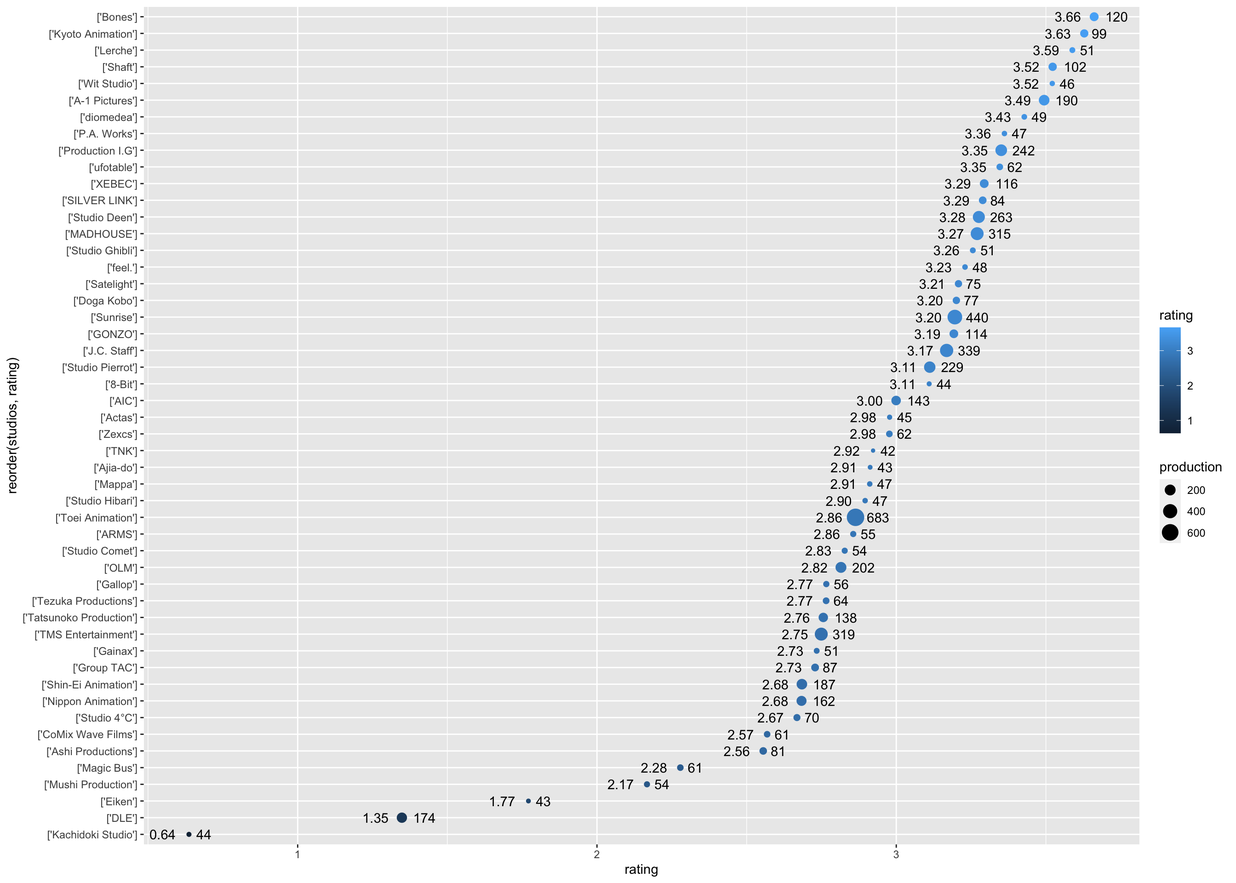
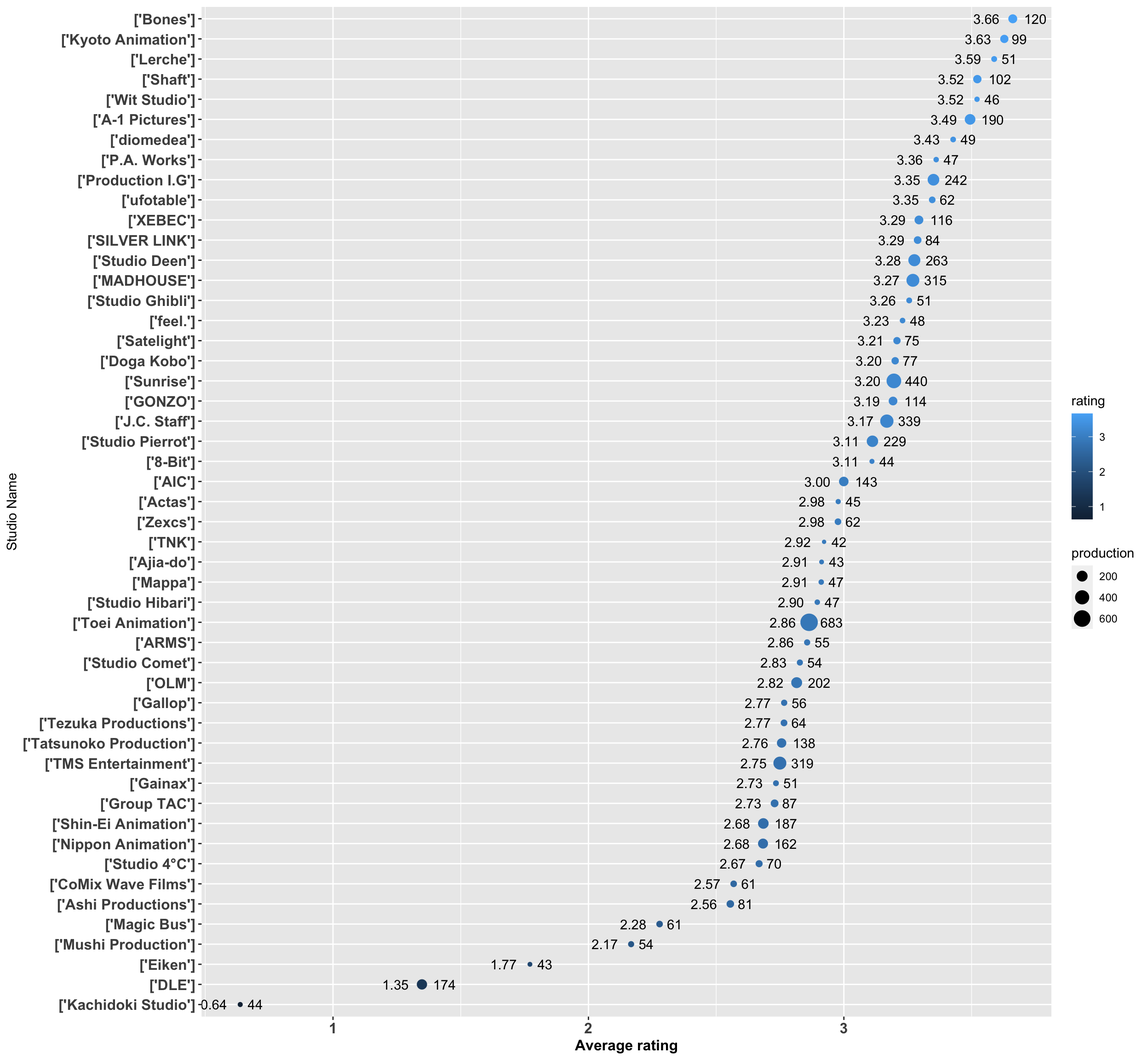
update1

diff --git a/docs/understanding-the-data.html b/docs/understanding-the-data.html
@@ -148,7 +148,6 @@ code span.wa { color: #60a0b0; font-weight: bold; font-style: italic; } /* Warni
 <li class="chapter" data-level="4.2" data-path="applications.html"><a href="applications.html#example-two"><i class="fa fa-check"></i><b>4.2</b> Example two</a></li>
 </ul></li>
 <li class="chapter" data-level="5" data-path="summary.html"><a href="summary.html"><i class="fa fa-check"></i><b>5</b> Summary</a></li>
-<li class="chapter" data-level="" data-path="some-further-thoughts-regarding-the-project.html"><a href="some-further-thoughts-regarding-the-project.html"><i class="fa fa-check"></i>Some further thoughts regarding the project</a></li>
 <li class="divider"></li>
 <li><a href="./">Psy6422 project by Halleyson Li</a></li>
 
@@ -232,10 +231,14 @@ Another way is by code shows as below:</p>
 <span id="cb3-42"><a href="understanding-the-data.html#cb3-42" aria-hidden="true" tabindex="-1"></a></span>
 <span id="cb3-43"><a href="understanding-the-data.html#cb3-43" aria-hidden="true" tabindex="-1"></a><span class="co">#only keep top 50 production studios</span></span>
 <span id="cb3-44"><a href="understanding-the-data.html#cb3-44" aria-hidden="true" tabindex="-1"></a><span class="fu">library</span>(data.table)</span>
-<span id="cb3-45"><a href="understanding-the-data.html#cb3-45" aria-hidden="true" tabindex="-1"></a>studiotop50 <span class="ot">&lt;-</span> <span class="fu">data.table</span>(studioall, <span class="at">key =</span> <span class="st">&quot;production&quot;</span>)</span>
-<span id="cb3-46"><a href="understanding-the-data.html#cb3-46" aria-hidden="true" tabindex="-1"></a>studiotop50 <span class="ot">&lt;-</span> studiotop50 <span class="sc">%&gt;%</span> </span>
-<span id="cb3-47"><a href="understanding-the-data.html#cb3-47" aria-hidden="true" tabindex="-1"></a>  <span class="fu">arrange</span>(<span class="fu">desc</span>(production)) <span class="sc">%&gt;%</span> </span>
-<span id="cb3-48"><a href="understanding-the-data.html#cb3-48" aria-hidden="true" tabindex="-1"></a>  <span class="fu">slice</span> (<span class="dv">1</span><span class="sc">:</span><span class="dv">50</span>)</span></code></pre></div>
+<span id="cb3-45"><a href="understanding-the-data.html#cb3-45" aria-hidden="true" tabindex="-1"></a></span>
+<span id="cb3-46"><a href="understanding-the-data.html#cb3-46" aria-hidden="true" tabindex="-1"></a><span class="co">#need this package to use piping</span></span>
+<span id="cb3-47"><a href="understanding-the-data.html#cb3-47" aria-hidden="true" tabindex="-1"></a><span class="fu">library</span> (dplyr)</span>
+<span id="cb3-48"><a href="understanding-the-data.html#cb3-48" aria-hidden="true" tabindex="-1"></a></span>
+<span id="cb3-49"><a href="understanding-the-data.html#cb3-49" aria-hidden="true" tabindex="-1"></a>studiotop50 <span class="ot">&lt;-</span> <span class="fu">data.table</span>(studioall, <span class="at">key =</span> <span class="st">&quot;production&quot;</span>)</span>
+<span id="cb3-50"><a href="understanding-the-data.html#cb3-50" aria-hidden="true" tabindex="-1"></a>studiotop50 <span class="ot">&lt;-</span> studiotop50 <span class="sc">%&gt;%</span> </span>
+<span id="cb3-51"><a href="understanding-the-data.html#cb3-51" aria-hidden="true" tabindex="-1"></a>  <span class="fu">arrange</span>(<span class="fu">desc</span>(production)) <span class="sc">%&gt;%</span> </span>
+<span id="cb3-52"><a href="understanding-the-data.html#cb3-52" aria-hidden="true" tabindex="-1"></a>  <span class="fu">slice</span> (<span class="dv">1</span><span class="sc">:</span><span class="dv">50</span>)</span></code></pre></div>
 <div class="sourceCode" id="cb4"><pre class="sourceCode r"><code class="sourceCode r"><span id="cb4-1"><a href="understanding-the-data.html#cb4-1" aria-hidden="true" tabindex="-1"></a>studio1959_2020 <span class="ot">&lt;-</span> </span>
 <span id="cb4-2"><a href="understanding-the-data.html#cb4-2" aria-hidden="true" tabindex="-1"></a>  <span class="fu">ggplot</span>(<span class="at">data =</span> studiotop50, <span class="at">mapping =</span>  <span class="fu">aes</span>(<span class="at">x =</span> production,</span>
 <span id="cb4-3"><a href="understanding-the-data.html#cb4-3" aria-hidden="true" tabindex="-1"></a>                                                <span class="at">y =</span> <span class="fu">reorder</span> (studios, production))) <span class="sc">+</span> </span>
@@ -251,26 +254,28 @@ Another way is by code shows as below:</p>
 ## replace the existing scale.</code></pre>
 <div class="sourceCode" id="cb9"><pre class="sourceCode r"><code class="sourceCode r"><span id="cb9-1"><a href="understanding-the-data.html#cb9-1" aria-hidden="true" tabindex="-1"></a><span class="fu">print</span>(plot <span class="sc">+</span> <span class="fu">labs</span>(<span class="at">y =</span> <span class="st">&quot;Studio Name&quot;</span>))</span></code></pre></div>
 <p><img src="psy6422-project_files/figure-html/unnamed-chunk-3-1.png" width="1248" /></p>
-<div class="sourceCode" id="cb10"><pre class="sourceCode r"><code class="sourceCode r"><span id="cb10-1"><a href="understanding-the-data.html#cb10-1" aria-hidden="true" tabindex="-1"></a>studio1959_2020 <span class="ot">&lt;-</span> </span>
+<div class="sourceCode" id="cb10"><pre class="sourceCode r"><code class="sourceCode r"><span id="cb10-1"><a href="understanding-the-data.html#cb10-1" aria-hidden="true" tabindex="-1"></a>studio1959_2020c <span class="ot">&lt;-</span> </span>
 <span id="cb10-2"><a href="understanding-the-data.html#cb10-2" aria-hidden="true" tabindex="-1"></a>  <span class="fu">ggplot</span>(<span class="at">data =</span> studiotop50, <span class="at">mapping =</span>  <span class="fu">aes</span>(<span class="at">x =</span> rating,</span>
 <span id="cb10-3"><a href="understanding-the-data.html#cb10-3" aria-hidden="true" tabindex="-1"></a>                                                <span class="at">y =</span> <span class="fu">reorder</span> (studios, rating))) <span class="sc">+</span> </span>
 <span id="cb10-4"><a href="understanding-the-data.html#cb10-4" aria-hidden="true" tabindex="-1"></a>  <span class="fu">geom_point</span>(<span class="fu">aes</span>(<span class="at">size =</span> production, <span class="at">colour =</span> rating, <span class="at">check_overlap =</span> <span class="cn">TRUE</span>)) <span class="sc">+</span> </span>
 <span id="cb10-5"><a href="understanding-the-data.html#cb10-5" aria-hidden="true" tabindex="-1"></a>  <span class="fu">geom_text</span>(<span class="fu">aes</span>(<span class="at">label =</span> production),<span class="at">hjust =</span> <span class="sc">-</span><span class="fl">0.5</span>) <span class="sc">+</span></span>
 <span id="cb10-6"><a href="understanding-the-data.html#cb10-6" aria-hidden="true" tabindex="-1"></a>  <span class="fu">geom_text</span>(<span class="fu">aes</span>(<span class="at">label =</span> <span class="fu">sprintf</span>(<span class="st">&quot;%.2f&quot;</span>,rating),<span class="at">hjust =</span> <span class="sc">+</span><span class="fl">1.5</span>))</span></code></pre></div>
 <pre><code>## Warning: Ignoring unknown aesthetics: check_overlap</code></pre>
-<div class="sourceCode" id="cb12"><pre class="sourceCode r"><code class="sourceCode r"><span id="cb12-1"><a href="understanding-the-data.html#cb12-1" aria-hidden="true" tabindex="-1"></a>plot1 <span class="ot">&lt;-</span> studio1959_2020 <span class="sc">+</span> <span class="fu">scale_x_discrete</span>(<span class="at">guide =</span> <span class="fu">guide_axis</span>(<span class="at">n.dodge =</span> <span class="dv">5</span>)) <span class="sc">+</span></span>
-<span id="cb12-2"><a href="understanding-the-data.html#cb12-2" aria-hidden="true" tabindex="-1"></a>  <span class="fu">scale_x_continuous</span>(<span class="st">&quot;rating&quot;</span>) </span></code></pre></div>
+<div class="sourceCode" id="cb12"><pre class="sourceCode r"><code class="sourceCode r"><span id="cb12-1"><a href="understanding-the-data.html#cb12-1" aria-hidden="true" tabindex="-1"></a>plot1 <span class="ot">&lt;-</span> studio1959_2020c <span class="sc">+</span> <span class="fu">scale_x_discrete</span>(<span class="at">guide =</span> <span class="fu">guide_axis</span>(<span class="at">n.dodge =</span> <span class="dv">5</span>)) <span class="sc">+</span></span>
+<span id="cb12-2"><a href="understanding-the-data.html#cb12-2" aria-hidden="true" tabindex="-1"></a>  <span class="fu">scale_x_continuous</span>(<span class="st">&quot;Average rating&quot;</span>) <span class="sc">+</span> <span class="fu">theme</span>(<span class="at">axis.text.y =</span> <span class="fu">element_text</span>(<span class="at">size =</span> <span class="dv">12</span>, <span class="at">face =</span> <span class="st">&quot;bold&quot;</span>),</span>
+<span id="cb12-3"><a href="understanding-the-data.html#cb12-3" aria-hidden="true" tabindex="-1"></a>                                                           <span class="at">axis.title.x =</span> <span class="fu">element_text</span>(<span class="at">size =</span> <span class="dv">12</span>, <span class="at">face =</span> <span class="st">&quot;bold&quot;</span>),</span>
+<span id="cb12-4"><a href="understanding-the-data.html#cb12-4" aria-hidden="true" tabindex="-1"></a>                                                           <span class="at">axis.text.x =</span> <span class="fu">element_text</span>(<span class="at">size =</span> <span class="dv">12</span>, <span class="at">face =</span> <span class="st">&quot;bold&quot;</span>))</span></code></pre></div>
 <pre><code>## Scale for &#39;x&#39; is already present. Adding another scale for &#39;x&#39;, which will
 ## replace the existing scale.</code></pre>
-<div class="sourceCode" id="cb14"><pre class="sourceCode r"><code class="sourceCode r"><span id="cb14-1"><a href="understanding-the-data.html#cb14-1" aria-hidden="true" tabindex="-1"></a><span class="fu">print</span>(plot1)</span></code></pre></div>
-<p><img src="psy6422-project_files/figure-html/unnamed-chunk-4-1.png" width="1344" /></p>
+<div class="sourceCode" id="cb14"><pre class="sourceCode r"><code class="sourceCode r"><span id="cb14-1"><a href="understanding-the-data.html#cb14-1" aria-hidden="true" tabindex="-1"></a><span class="fu">print</span>(plot1<span class="sc">+</span><span class="fu">labs</span>(<span class="at">y =</span> <span class="st">&quot;Studio Name&quot;</span>))</span></code></pre></div>
+<p><img src="psy6422-project_files/figure-html/unnamed-chunk-4-1.png" width="1248" /></p>
 <p>Since the first recorded studio starting at 1958, thus</p>
 <div class="sourceCode" id="cb15"><pre class="sourceCode r"><code class="sourceCode r"><span id="cb15-1"><a href="understanding-the-data.html#cb15-1" aria-hidden="true" tabindex="-1"></a><span class="fu">summary</span>(studiotop50<span class="sc">$</span>rating)</span>
 <span id="cb15-2"><a href="understanding-the-data.html#cb15-2" aria-hidden="true" tabindex="-1"></a></span>
 <span id="cb15-3"><a href="understanding-the-data.html#cb15-3" aria-hidden="true" tabindex="-1"></a></span>
 <span id="cb15-4"><a href="understanding-the-data.html#cb15-4" aria-hidden="true" tabindex="-1"></a>studiotop37r <span class="ot">&lt;-</span> studiotop50 <span class="sc">%&gt;%</span> </span>
 <span id="cb15-5"><a href="understanding-the-data.html#cb15-5" aria-hidden="true" tabindex="-1"></a>  <span class="fu">arrange</span>(<span class="fu">desc</span>(rating)) <span class="sc">%&gt;%</span> </span>
-<span id="cb15-6"><a href="understanding-the-data.html#cb15-6" aria-hidden="true" tabindex="-1"></a><span class="do">##after looking at the code, find out how many is below the 2.75 lower quartile</span></span>
+<span id="cb15-6"><a href="understanding-the-data.html#cb15-6" aria-hidden="true" tabindex="-1"></a><span class="co">#after looking at the code, find out how many is below the 2.75 lower quartile</span></span>
 <span id="cb15-7"><a href="understanding-the-data.html#cb15-7" aria-hidden="true" tabindex="-1"></a>  <span class="fu">slice</span> (<span class="dv">1</span><span class="sc">:</span><span class="dv">37</span>)</span>
 <span id="cb15-8"><a href="understanding-the-data.html#cb15-8" aria-hidden="true" tabindex="-1"></a></span>
 <span id="cb15-9"><a href="understanding-the-data.html#cb15-9" aria-hidden="true" tabindex="-1"></a>selectstudio <span class="ot">&lt;-</span> anime1 <span class="sc">%&gt;%</span> <span class="fu">select</span>(title, startYr, studios, rating)</span>

diff --git a/docs/index.html b/docs/index.html
@@ -24,7 +24,7 @@
 <meta name="author" content="Halleyson Li" />
 
 
-<meta name="date" content="2021-05-23" />
+<meta name="date" content="2021-05-24" />
 
   <meta name="viewport" content="width=device-width, initial-scale=1" />
   <meta name="apple-mobile-web-app-capable" content="yes" />
@@ -130,12 +130,14 @@ code span.wa { color: #60a0b0; font-weight: bold; font-style: italic; } /* Warni
       <nav role="navigation">
 
 <ul class="summary">
-<li><a href="./">Psy6422 project: Anime reconmandation engine</a></li>
+<li><a href="./">Psy6422 project: Prolific anime studios's prodction and rating </a></li>
 
 <li class="divider"></li>
 <li class="chapter" data-level="" data-path="index.html"><a href="index.html"><i class="fa fa-check"></i>Overview</a>
 <ul>
-<li class="chapter" data-level="0.1" data-path="index.html"><a href="index.html#project-aims"><i class="fa fa-check"></i><b>0.1</b> Project Aims</a></li>
+<li class="chapter" data-level="0.1" data-path="index.html"><a href="index.html#project-motivation"><i class="fa fa-check"></i><b>0.1</b> Project motivation</a></li>
+<li class="chapter" data-level="0.2" data-path="index.html"><a href="index.html#project-aims"><i class="fa fa-check"></i><b>0.2</b> Project Aims</a></li>
+<li class="chapter" data-level="0.3" data-path="index.html"><a href="index.html#package-requirement"><i class="fa fa-check"></i><b>0.3</b> Package requirement</a></li>
 </ul></li>
 <li class="chapter" data-level="1" data-path="understanding-the-data.html"><a href="understanding-the-data.html"><i class="fa fa-check"></i><b>1</b> Understanding the data</a></li>
 <li class="chapter" data-level="2" data-path="basic-interpretation.html"><a href="basic-interpretation.html"><i class="fa fa-check"></i><b>2</b> Basic interpretation</a></li>
@@ -146,7 +148,6 @@ code span.wa { color: #60a0b0; font-weight: bold; font-style: italic; } /* Warni
 <li class="chapter" data-level="4.2" data-path="applications.html"><a href="applications.html#example-two"><i class="fa fa-check"></i><b>4.2</b> Example two</a></li>
 </ul></li>
 <li class="chapter" data-level="5" data-path="summary.html"><a href="summary.html"><i class="fa fa-check"></i><b>5</b> Summary</a></li>
-<li class="chapter" data-level="" data-path="references.html"><a href="references.html"><i class="fa fa-check"></i>References</a></li>
 <li class="divider"></li>
 <li><a href="./">Psy6422 project by Halleyson Li</a></li>
 
@@ -169,18 +170,23 @@ code span.wa { color: #60a0b0; font-weight: bold; font-style: italic; } /* Warni
             <section class="normal" id="section-">
 <div id="header">
 <h1 class="title">PSY6422 Project</h1>
-<h2 class="subtitle"><em>Anime reconmandation based on the data from anime-planet</em></h2>
+<h2 class="subtitle"><em>Prolific anime studios prodction and rating</em></h2>
 <p class="author"><em>Halleyson Li</em></p>
-<p class="date"><em>2021-05-23</em></p>
+<p class="date"><em>2021-05-24</em></p>
 </div>
 <div id="overview" class="section level1 unnumbered">
 <h1>Overview</h1>
 <p>Based on the data scraped from <em>anime-planet</em> on June 15, 2020.
 Uploaded by Alan Mathew on <a href="https://www.kaggle.com/alancmathew/anime-dataset">Kaggle</a>.</p>
-<p>The package requirement for this
-## Project motivation</p>
-<div id="project-aims" class="section level2" number="0.1">
-<h2><span class="header-section-number">0.1</span> Project Aims</h2>
+<p>The package requirement for this</p>
+<div id="project-motivation" class="section level2" number="0.1">
+<h2><span class="header-section-number">0.1</span> Project motivation</h2>
+</div>
+<div id="project-aims" class="section level2" number="0.2">
+<h2><span class="header-section-number">0.2</span> Project Aims</h2>
+</div>
+<div id="package-requirement" class="section level2" number="0.3">
+<h2><span class="header-section-number">0.3</span> Package requirement</h2>
 
 </div>
 </div>

diff --git a/docs/summary.html b/docs/summary.html
@@ -24,7 +24,7 @@
 <meta name="author" content="Halleyson Li" />
 
 
-<meta name="date" content="2021-05-23" />
+<meta name="date" content="2021-05-24" />
 
   <meta name="viewport" content="width=device-width, initial-scale=1" />
   <meta name="apple-mobile-web-app-capable" content="yes" />
@@ -32,7 +32,7 @@
   
   
 <link rel="prev" href="applications.html"/>
-<link rel="next" href="references.html"/>
+
 <script src="libs/header-attrs-2.7/header-attrs.js"></script>
 <script src="libs/jquery-2.2.3/jquery.min.js"></script>
 <link href="libs/gitbook-2.6.7/css/style.css" rel="stylesheet" />
@@ -130,12 +130,14 @@ code span.wa { color: #60a0b0; font-weight: bold; font-style: italic; } /* Warni
       <nav role="navigation">
 
 <ul class="summary">
-<li><a href="./">Psy6422 project: Anime reconmandation engine</a></li>
+<li><a href="./">Psy6422 project: Prolific anime studios's prodction and rating </a></li>
 
 <li class="divider"></li>
 <li class="chapter" data-level="" data-path="index.html"><a href="index.html"><i class="fa fa-check"></i>Overview</a>
 <ul>
-<li class="chapter" data-level="0.1" data-path="index.html"><a href="index.html#project-aims"><i class="fa fa-check"></i><b>0.1</b> Project Aims</a></li>
+<li class="chapter" data-level="0.1" data-path="index.html"><a href="index.html#project-motivation"><i class="fa fa-check"></i><b>0.1</b> Project motivation</a></li>
+<li class="chapter" data-level="0.2" data-path="index.html"><a href="index.html#project-aims"><i class="fa fa-check"></i><b>0.2</b> Project Aims</a></li>
+<li class="chapter" data-level="0.3" data-path="index.html"><a href="index.html#package-requirement"><i class="fa fa-check"></i><b>0.3</b> Package requirement</a></li>
 </ul></li>
 <li class="chapter" data-level="1" data-path="understanding-the-data.html"><a href="understanding-the-data.html"><i class="fa fa-check"></i><b>1</b> Understanding the data</a></li>
 <li class="chapter" data-level="2" data-path="basic-interpretation.html"><a href="basic-interpretation.html"><i class="fa fa-check"></i><b>2</b> Basic interpretation</a></li>
@@ -146,7 +148,6 @@ code span.wa { color: #60a0b0; font-weight: bold; font-style: italic; } /* Warni
 <li class="chapter" data-level="4.2" data-path="applications.html"><a href="applications.html#example-two"><i class="fa fa-check"></i><b>4.2</b> Example two</a></li>
 </ul></li>
 <li class="chapter" data-level="5" data-path="summary.html"><a href="summary.html"><i class="fa fa-check"></i><b>5</b> Summary</a></li>
-<li class="chapter" data-level="" data-path="references.html"><a href="references.html"><i class="fa fa-check"></i>References</a></li>
 <li class="divider"></li>
 <li><a href="./">Psy6422 project by Halleyson Li</a></li>
 
@@ -177,8 +178,8 @@ code span.wa { color: #60a0b0; font-weight: bold; font-style: italic; } /* Warni
           </div>
         </div>
       </div>
-<a href="applications.html" class="navigation navigation-prev " aria-label="Previous page"><i class="fa fa-angle-left"></i></a>
-<a href="references.html" class="navigation navigation-next " aria-label="Next page"><i class="fa fa-angle-right"></i></a>
+<a href="applications.html" class="navigation navigation-prev navigation-unique" aria-label="Previous page"><i class="fa fa-angle-left"></i></a>
+
     </div>
   </div>
 <script src="libs/gitbook-2.6.7/js/app.min.js"></script>

diff --git a/docs/applications.html b/docs/applications.html
@@ -24,7 +24,7 @@
 <meta name="author" content="Halleyson Li" />
 
 
-<meta name="date" content="2021-05-23" />
+<meta name="date" content="2021-05-24" />
 
   <meta name="viewport" content="width=device-width, initial-scale=1" />
   <meta name="apple-mobile-web-app-capable" content="yes" />
@@ -130,12 +130,14 @@ code span.wa { color: #60a0b0; font-weight: bold; font-style: italic; } /* Warni
       <nav role="navigation">
 
 <ul class="summary">
-<li><a href="./">Psy6422 project: Anime reconmandation engine</a></li>
+<li><a href="./">Psy6422 project: Prolific anime studios's prodction and rating </a></li>
 
 <li class="divider"></li>
 <li class="chapter" data-level="" data-path="index.html"><a href="index.html"><i class="fa fa-check"></i>Overview</a>
 <ul>
-<li class="chapter" data-level="0.1" data-path="index.html"><a href="index.html#project-aims"><i class="fa fa-check"></i><b>0.1</b> Project Aims</a></li>
+<li class="chapter" data-level="0.1" data-path="index.html"><a href="index.html#project-motivation"><i class="fa fa-check"></i><b>0.1</b> Project motivation</a></li>
+<li class="chapter" data-level="0.2" data-path="index.html"><a href="index.html#project-aims"><i class="fa fa-check"></i><b>0.2</b> Project Aims</a></li>
+<li class="chapter" data-level="0.3" data-path="index.html"><a href="index.html#package-requirement"><i class="fa fa-check"></i><b>0.3</b> Package requirement</a></li>
 </ul></li>
 <li class="chapter" data-level="1" data-path="understanding-the-data.html"><a href="understanding-the-data.html"><i class="fa fa-check"></i><b>1</b> Understanding the data</a></li>
 <li class="chapter" data-level="2" data-path="basic-interpretation.html"><a href="basic-interpretation.html"><i class="fa fa-check"></i><b>2</b> Basic interpretation</a></li>
@@ -146,7 +148,6 @@ code span.wa { color: #60a0b0; font-weight: bold; font-style: italic; } /* Warni
 <li class="chapter" data-level="4.2" data-path="applications.html"><a href="applications.html#example-two"><i class="fa fa-check"></i><b>4.2</b> Example two</a></li>
 </ul></li>
 <li class="chapter" data-level="5" data-path="summary.html"><a href="summary.html"><i class="fa fa-check"></i><b>5</b> Summary</a></li>
-<li class="chapter" data-level="" data-path="references.html"><a href="references.html"><i class="fa fa-check"></i>References</a></li>
 <li class="divider"></li>
 <li><a href="./">Psy6422 project by Halleyson Li</a></li>
 

diff --git a/docs/basic-interpretation.html b/docs/basic-interpretation.html
@@ -24,7 +24,7 @@
 <meta name="author" content="Halleyson Li" />
 
 
-<meta name="date" content="2021-05-23" />
+<meta name="date" content="2021-05-24" />
 
   <meta name="viewport" content="width=device-width, initial-scale=1" />
   <meta name="apple-mobile-web-app-capable" content="yes" />
@@ -130,12 +130,14 @@ code span.wa { color: #60a0b0; font-weight: bold; font-style: italic; } /* Warni
       <nav role="navigation">
 
 <ul class="summary">
-<li><a href="./">Psy6422 project: Anime reconmandation engine</a></li>
+<li><a href="./">Psy6422 project: Prolific anime studios's prodction and rating </a></li>
 
 <li class="divider"></li>
 <li class="chapter" data-level="" data-path="index.html"><a href="index.html"><i class="fa fa-check"></i>Overview</a>
 <ul>
-<li class="chapter" data-level="0.1" data-path="index.html"><a href="index.html#project-aims"><i class="fa fa-check"></i><b>0.1</b> Project Aims</a></li>
+<li class="chapter" data-level="0.1" data-path="index.html"><a href="index.html#project-motivation"><i class="fa fa-check"></i><b>0.1</b> Project motivation</a></li>
+<li class="chapter" data-level="0.2" data-path="index.html"><a href="index.html#project-aims"><i class="fa fa-check"></i><b>0.2</b> Project Aims</a></li>
+<li class="chapter" data-level="0.3" data-path="index.html"><a href="index.html#package-requirement"><i class="fa fa-check"></i><b>0.3</b> Package requirement</a></li>
 </ul></li>
 <li class="chapter" data-level="1" data-path="understanding-the-data.html"><a href="understanding-the-data.html"><i class="fa fa-check"></i><b>1</b> Understanding the data</a></li>
 <li class="chapter" data-level="2" data-path="basic-interpretation.html"><a href="basic-interpretation.html"><i class="fa fa-check"></i><b>2</b> Basic interpretation</a></li>
@@ -146,7 +148,6 @@ code span.wa { color: #60a0b0; font-weight: bold; font-style: italic; } /* Warni
 <li class="chapter" data-level="4.2" data-path="applications.html"><a href="applications.html#example-two"><i class="fa fa-check"></i><b>4.2</b> Example two</a></li>
 </ul></li>
 <li class="chapter" data-level="5" data-path="summary.html"><a href="summary.html"><i class="fa fa-check"></i><b>5</b> Summary</a></li>
-<li class="chapter" data-level="" data-path="references.html"><a href="references.html"><i class="fa fa-check"></i>References</a></li>
 <li class="divider"></li>
 <li><a href="./">Psy6422 project by Halleyson Li</a></li>
 

diff --git a/docs/methods.html b/docs/methods.html
@@ -24,7 +24,7 @@
 <meta name="author" content="Halleyson Li" />
 
 
-<meta name="date" content="2021-05-23" />
+<meta name="date" content="2021-05-24" />
 
   <meta name="viewport" content="width=device-width, initial-scale=1" />
   <meta name="apple-mobile-web-app-capable" content="yes" />
@@ -130,12 +130,14 @@ code span.wa { color: #60a0b0; font-weight: bold; font-style: italic; } /* Warni
       <nav role="navigation">
 
 <ul class="summary">
-<li><a href="./">Psy6422 project: Anime reconmandation engine</a></li>
+<li><a href="./">Psy6422 project: Prolific anime studios's prodction and rating </a></li>
 
 <li class="divider"></li>
 <li class="chapter" data-level="" data-path="index.html"><a href="index.html"><i class="fa fa-check"></i>Overview</a>
 <ul>
-<li class="chapter" data-level="0.1" data-path="index.html"><a href="index.html#project-aims"><i class="fa fa-check"></i><b>0.1</b> Project Aims</a></li>
+<li class="chapter" data-level="0.1" data-path="index.html"><a href="index.html#project-motivation"><i class="fa fa-check"></i><b>0.1</b> Project motivation</a></li>
+<li class="chapter" data-level="0.2" data-path="index.html"><a href="index.html#project-aims"><i class="fa fa-check"></i><b>0.2</b> Project Aims</a></li>
+<li class="chapter" data-level="0.3" data-path="index.html"><a href="index.html#package-requirement"><i class="fa fa-check"></i><b>0.3</b> Package requirement</a></li>
 </ul></li>
 <li class="chapter" data-level="1" data-path="understanding-the-data.html"><a href="understanding-the-data.html"><i class="fa fa-check"></i><b>1</b> Understanding the data</a></li>
 <li class="chapter" data-level="2" data-path="basic-interpretation.html"><a href="basic-interpretation.html"><i class="fa fa-check"></i><b>2</b> Basic interpretation</a></li>
@@ -146,7 +148,6 @@ code span.wa { color: #60a0b0; font-weight: bold; font-style: italic; } /* Warni
 <li class="chapter" data-level="4.2" data-path="applications.html"><a href="applications.html#example-two"><i class="fa fa-check"></i><b>4.2</b> Example two</a></li>
 </ul></li>
 <li class="chapter" data-level="5" data-path="summary.html"><a href="summary.html"><i class="fa fa-check"></i><b>5</b> Summary</a></li>
-<li class="chapter" data-level="" data-path="references.html"><a href="references.html"><i class="fa fa-check"></i>References</a></li>
 <li class="divider"></li>
 <li><a href="./">Psy6422 project by Halleyson Li</a></li>
 
